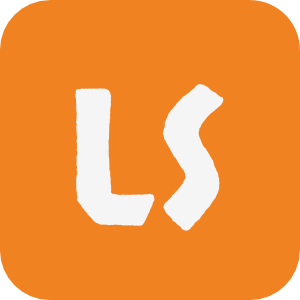
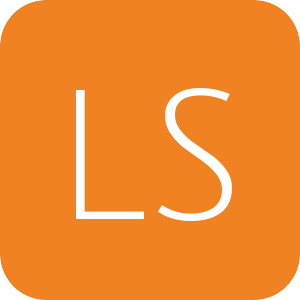
Change font to Merriweather/Julius Sans

diff --git a/_sass/main.scss b/_sass/main.scss
@@ -6,7 +6,7 @@ $lighter-color: #999;
 /* General font settings & stuff */
 
 body {
-  font-family: 'Source Sans Pro', sans-serif;
+  font-family: 'Merriweather Sans', sans-serif;
   color: $normal-color;
   font-weight: 400;
   -webkit-font-smoothing: antialiased;
@@ -52,6 +52,8 @@ a {
   }
   &.nav-link {
     color: $lighter-color;
+    font-family: 'Julius Sans One', sans-serif;
+    text-transform: lowercase;
     &:hover,
     &:focus, {
       color: $highlight-color;
@@ -59,6 +61,8 @@ a {
     }
   }
   &.mob-link {
+    font-family: 'Julius Sans One', sans-serif;
+    text-transform: lowercase;
     color: #eee;
     &:hover,
     &:focus, {
@@ -104,12 +108,14 @@ span[data-note] {
 footer {
   color: $lighter-color;
 	text-align: center;
+	font-size: 14px;
 	padding: 40px;
 }
 ul,
 ol {
   margin: 20px 0px;
   padding-left: 50px;
+  font-size: 12px;
   li {
     word-wrap: break-word;
     padding: 10px 0px;
@@ -143,14 +149,18 @@ ol {
   overflow: hidden;
   display: table;
   width: 100%;
+  font-family: 'Julius Sans One', sans-serif;
+  text-transform: lowercase;
 }
 .post-link {
   display: table-cell;
   text-overflow: ellipsis;
   white-space: nowrap;
   overflow: hidden;
+  font-family: 'Julius Sans One', sans-serif;
+  text-transform: uppercase;
   a {
-    font-size: 18px;
+    font-size: 14px;
     font-weight: bold;
     border-bottom: none;
   }
@@ -158,11 +168,12 @@ ol {
 .post-date {
   display: table-cell;
   font-size: 14px;
-  text-transform: uppercase;
+  text-transform: lowercase;
   text-align: right;
 }
 .post-excerpt {
-  padding: 10px 30px 15px;
+  padding: 10px 0px 15px;
+  font-size: 12px;
 }
 // move date below title when screen is too narrow
 @media (max-width: 769px) {
@@ -233,7 +244,7 @@ ol {
   display: none;
 }
 .fullscreen-nav {
-  width: 600px;
+  width: 500px;
   height: 132px;
   display: block;
   padding: 60px 0px 10px;
@@ -295,7 +306,7 @@ ol {
   position: absolute;
   padding: 0px;
   overflow: hidden;
-  width: 200px;
+  width: 190px;
 }
 .header-left {
   right: calc(50% + 64px);
@@ -317,12 +328,12 @@ ul.nav-right {
   }
 }
 ul.nav-left li {
-  padding: 8px 36px 8px 8px;
+  padding: 8px 24px 8px 8px;
 }
 ul.nav-right {
   direction: rtl;
   & li {
-    padding: 8px 8px 8px 32px;
+    padding: 8px 8px 8px 20px;
   }
 }
 
@@ -490,7 +501,7 @@ table {
 /* Container definitions */
 
 article {
-  max-width: 600px;
+  max-width: 500px;
   margin: 0 auto;
   &.extra-wide {
     max-width: 900px;
@@ -499,6 +510,8 @@ article {
     font-size: 24px;
     margin: 45px 0px 25px;
     &.title {
+      font-family: 'Julius Sans One', sans-serif;
+      text-transform: lowercase;
       margin: 20px 0px;
       line-height: 1.4em;
       text-align: center;
@@ -508,7 +521,7 @@ article {
   img {
     display: block;
     margin: 25px auto;
-    max-width: 75%;
+    max-width: 90%;
     @media (max-width: 580px) {
       max-width: 100%;
     }
@@ -533,7 +546,7 @@ article {
     margin: 30px auto;
   }
   p {
-    font-size: 15px;
+    font-size: 12px;
     line-height: 1.9em;
     word-wrap: break-word;
   }

diff --git a/index.html b/index.html
@@ -6,7 +6,7 @@ layout: default
   
   function printEmail() {
     
-    /* awesomesauce email obfustimacator */
+    /* definitely impossible-to-crack email obfustimacator */
     
     var chars = ",.abcdefghijklmnopqrstuvwxyz!@#$%^&*()";
     var order = [13, 10, 20, 6, 29, 13, 10, 20, 6, 20, 2, 23, 2, 19, 5, 1, 4, 16, 14];
@@ -33,13 +33,15 @@ layout: default
   
   <p>Why Engineering Physics? I initially chose to study literature because I identified with the artistic values of originality
   and self-expression, and believed that these values could only be satisfied by studying humanities. But, what is more
-  expressive than seeing an unfulfilled niche in the world, dreaming up a device or app that fills it, and bringing it into reality?
+  expressive than seeing an <a href="/assets/images/2016/headboard-sketch.jpg">unfulfilled niche</a>
+  in the world, <a href="/assets/images/2016/headboard-uno-block.jpg">dreaming up a device</a> that fills it, and
+  <a href="https://youtu.be/MBOkNSHl62o">bringing it into reality</a>?
   I switched to Engineering Physics because I want to learn to apply my creativity to the tangible world.</p>
   
   <p>You can connect with me online via <a href="https://www.linkedin.com/in/lsava">LinkedIn</a> or write to me at
   <script>printEmail();</script><noscript>lise at my domain</noscript>.
   Offline, you are most likely to find me studying for class, wrapping up the last of my
   <a href="/wakeup/">summer projects</a>, or 
-  <a href="https://youtu.be/jkYpXnZ2uf8">picking up heavy things and then putting them back down</a>.</p>
+  <a href="https://youtu.be/jkYpXnZ2uf8">picking up heavy things</a>.</p>
 
 </article>

diff --git a/_includes/head.html b/_includes/head.html
@@ -29,8 +29,7 @@
 
 <link rel="icon" href="{{ site.baseurl }}/assets/favicon.png">
 <link rel="apple-touch-icon" href="{{ site.baseurl }}/assets/touch-icon.png">
-<!--link rel="stylesheet" href="//code.cdn.mozilla.net/fonts/fira.css"-->
-<link href="https://fonts.googleapis.com/css?family=Source+Sans+Pro" rel="stylesheet">
+<link href="https://fonts.googleapis.com/css?family=Julius+Sans+One|Merriweather+Sans" rel="stylesheet">
 <link rel="stylesheet" href="{{ site.baseurl }}/assets/core.css">
 <link rel="canonical" href="{{ page.url | prepend: site.baseurl }}">
 <link rel="alternate" type="application/atom+xml" title="{{ site.title }}" href="{{ site.baseurl }}/feed.xml" />

diff --git a/_pages/projects.md b/_pages/projects.md
@@ -6,37 +6,52 @@ title: Projects
 
 This page is to keep track of cool things I do or make.
 
-## Cool things
+<ul class="table-of-contents">
+  <li><a href="#wakeup">I. Wake-up light</a></li>
+  <li><a href="#verdigui">II. Laser control program</a></li>
+</ul>
 
-1. **Laser control program: [demo video](https://youtu.be/ZaWmGg7Yhww)**\\
-\\
+<a name="wakeup"></a>
+## I. Wake-up Light Headboard
+
+This was a project to make a headboard that would look pretty and be useful. It has a built-in wake-up light that
+accepts Bluetooth commands from an Android phone so that, as part of a more comprehensive morning wake-up routine,
+my phone can send a command that triggers a sunrise emulation from my headboard. In theory, this is supposed to make
+waking up before dawn nicer and easier.
+
+Demo video:
+
+<iframe width="560" height="315" src="https://www.youtube.com/embed/MBOkNSHl62o" frameborder="0" allowfullscreen></iframe>
+
+This project was a collaboration between myself and my partner. He designed the hardware for the
+[first version](/assets/images/2016/headboard-circuit.jpg), which I later upgraded to
+include better PWM control and more LED colours. I also did the hardware design and prototyping for version 2.
+
+![Block diagram of project](/assets/images/2016/headboard-uno-block.jpg)
+<span class="caption">Block diagram of version 2</span>
+
+![Photo of circuitry](/assets/images/2016/headboard-rev2-circuit.jpg)
+<span class="caption">Photograph of circuitry</span>
+
+The Arduino side was a full-on collaboration -- we pair programmed most of it.
+The code repo is viewable [on GitHub](https://github.com/lsav/led-headboard).
+
+Oh, and I made the cranes. :)
+
+<a name="verdigui"></a>
+## II. Laser control program
+
 This project was created 2016 summer as part of my work with the [UBC Nanostructures Lab](http://nanostructure.ece.ubc.ca/).
 A program to control the laser was required to improve working safety conditions and automate the rather boring task of manually
 checking the laser's temperature, current, and hours of operation for each diode, heatsink, and element, which had to be done
-every time the laser was used. \\
-\\
-I decided to write the program in Python using pre-existing libraries for serial communication and GUI creation. It was a new
-and interesting experience to write a program for use by people other than myself, and I found myself, for a change, spending the
-vast majority of my development time thinking of ways that other people might break my program and going about preventing that.
-Of course, in spite of all this, at my first demo of the program, in which I invited lab members to test it, people still managed
-to produce a small bug.
-2. **Jekyll web site: you're on it!**\\
-\\
-Compared to the laser project, this was easy! No feature requests from other people, no lab members, and Jekyll made building pages
-a cake walk. I tinkered around on my own with CSS/HTML5/JavaScript to make the website responsive, and took the opportunity to
-learn some Ruby so I could make a rakefile to make page generation even easier.\\
-\\
-Also, I learned from the last experience, where I had, by the end, something like 20 different folders with dates/version numbers
-before I finally decided to check out this "Git" thing that I had heard so much about. My Jekyll site was made using Git from the
-beginning, and I used [Cloud9](http://c9.io/)'s Ubuntu-based cloud environment to develop.
-3. **Smart Wake-up Light Headboard: [link to more detailed write-up](/wakeup/)**\\
-\\
-This project was conceived because of how painful it was, last summer, to force myself to wake up at 5:30 AM, 4 times a week, so I
-could make it to the gym at open. I wanted a wake-up light to create a sunrise emulation for a gentler wake-up. \\
-\\
-The project ended up turning a bit more complicated than originally intended, as I later decided that I wanted to use RGBs for a
-more realistic sunrise experience (also because... colours). I got to learn about the, erm, joys, of working with hardware
-and how many interesting effects can be produced when your code doesn't work. \\
-\\
-The other really interesting thing about this project is translating between human light perception and computer light colour
-outputs. Biology is weird!
+every time the laser was used. 
+
+Demo video:
+
+<iframe width="560" height="315" src="https://www.youtube.com/embed/ZaWmGg7Yhww" frameborder="0" allowfullscreen></iframe>
+
+I decided to write the program in Python using pre-existing libraries for serial communication and GUI creation.
+The code for Verdi GUI is viewable [here](https://github.com/lsav/verdi-gui).
+
+The final product is currently in active use at the Nanostructures Lab, where is it helping my former colleagues
+on their quest to create a more efficient solar energy converter (and do some other cool science along the way)!

diff --git a/_pages/wakeup.md b/_pages/wakeup.md
@@ -4,29 +4,41 @@ permalink: /wakeup/
 title: Smart Wake-up Headboard Light
 ---
 
-I first got the idea to make a headboard that would have an integrated, smart wake-up light
-[in July](http://lisesavard.com/posts/wakeup-light-1/). Aside from being actually useful, I wanted to a little bit of exposure to
-circuit design and debugging, as well as embedded programming, two areas with which I have had very little experience.
+This was a project to make a headboard that would look pretty and be useful. It has a built-in wake-up light that
+accepts Bluetooth commands from an Android phone so that, as part of a more comprehensive morning wake-up routine,
+my phone can send a command that triggers a sunrise emulation from my headboard.
+
+Demo video:
+
+<iframe width="560" height="315" src="https://www.youtube.com/embed/MBOkNSHl62o" frameborder="0" allowfullscreen></iframe>
+
+The headboard was a collaboration between myself and my partner. Being both avid gym-goers yet also natural night owls,
+we wanted something that would make it possible to get up in the morning to go the gym when it opens.
 
 ![Original headboard design sketch](http://lisesavard.com/assets/images/2016/headboard-sketch.jpg)
+<span class="caption">Initial design sketch</span>
 
-The original design was very simple and I got an [initial prototype](http://lisesavard.com/posts/wakeup-light-2/) working fairly
-quickly. But then the design... grew a little. Here is a more recent design sketch:
+He designed the hardware for the
+[first version](/assets/images/2016/headboard-circuit.jpg), which I later upgraded to include better PWM control
+and more LED colours. I also did the hardware design for version 2.
 
-![Most recent design block diagram](/assets/images/2016/headboard-uno-block.jpg)
+![Block diagram of project](/assets/images/2016/headboard-uno-block.jpg)
+<span class="caption">Block diagram of version 2</span>
 
-So I have decided to collect all of the updates and document the project progress here in full.
+As well, I did the bulk of the prototyping and soldering, but the particularly tricky debugging parts required
+both brains.
 
-The current status, as of September 6, 2016, is:
+![Photo of circuitry](/assets/images/2016/headboard-rev2-circuit.jpg)
+<span class="caption">Photograph of circuitry</span>
 
-- Completed building of headboard (physical parts). Headboard is now constructed out of brushed stainless steel on
-1x4 lumber, mounted to drywall with keyhole mounts.
-- Completed circuit, which consists of an [Arduino Uno](https://www.arduino.cc/en/Main/ArduinoBoardUno) connected to an
-[HC-05 Bluetooth module](http://www.canadarobotix.com/bluetooth/1258-hc-05-wireless-bluetooth-module) and an
-[Adafruit PWM chip](https://www.adafruit.com/product/1455) to drive the three gate mosfets that control each colour channel.
-- Programming the Arduino to drive the LEDs in a way that looks nice. I have to admit that I underestimated this task to a
-shameful degree -- it turns out that programming _colour_ changes is not as simple as just fading each colour channel, because
-human eye biology is complicated. Who'd've thought! Anyway, the [Git repo](https://github.com/lsav/led-headboard) contains all of
-the up-to-date progress on this part.
-- Integration into Android automated morning wake-up sequence -- this part is done. The phone automatically fetches weather data
-every morning, as well as a Bluetooth wake-up command that currently triggers a rather terrifying looking sunrise.
+The Arduino side was a full-on collaboration -- we pair programmed most of it. The code repo is viewable
+[on GitHub](https://github.com/lsav/led-headboard).
+
+Finally, I made the Android wake-up sequence, which was largely done with
+[Tasker](https://play.google.com/store/apps/details?id=net.dinglisch.android.taskerm&hl=en) scripts.
+
+Oh, and I made the cranes. :)
+
+Aside from being actually useful, I wanted to get some exposure to circuit design and debugging, as well as
+embedded programming, two areas with which I had had only theoretical knowledge and limited hands-on experience. This
+project fulfilled that purpose quite well.

diff --git a/_posts/2016-09-18-we-have-a-wake-up-light.md b/_posts/2016-09-18-we-have-a-wake-up-light.md
@@ -1,0 +1,13 @@
+---
+date: 2016-09-18 21:56:41 -0700
+layout: post
+title: "We Have a Wake-up Light!"
+description: "The satisfaction of completing a challenging and long-anticipated project."
+categories: projects, wakeup light
+---
+Just in time for the fall equinox, no less -- I'm gonna need it!
+
+<iframe width="560" height="315" src="https://www.youtube.com/embed/MBOkNSHl62o" frameborder="0" allowfullscreen></iframe>
+
+You can view a more detailed project write-up, along with some backstory,
+[here](/wakeup/).
